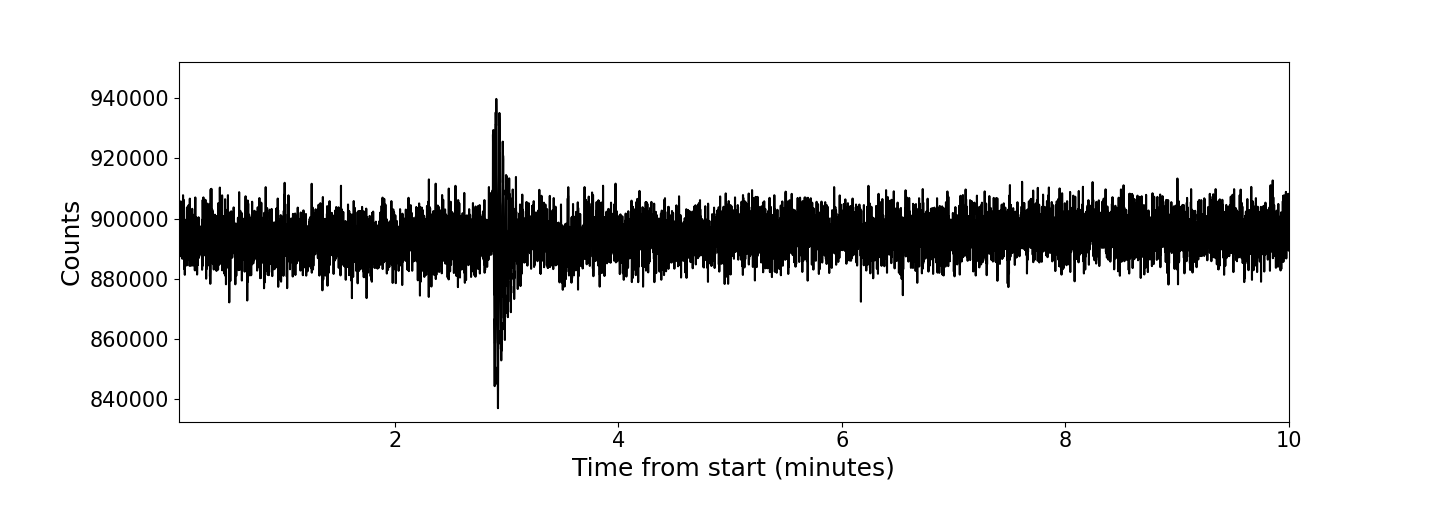
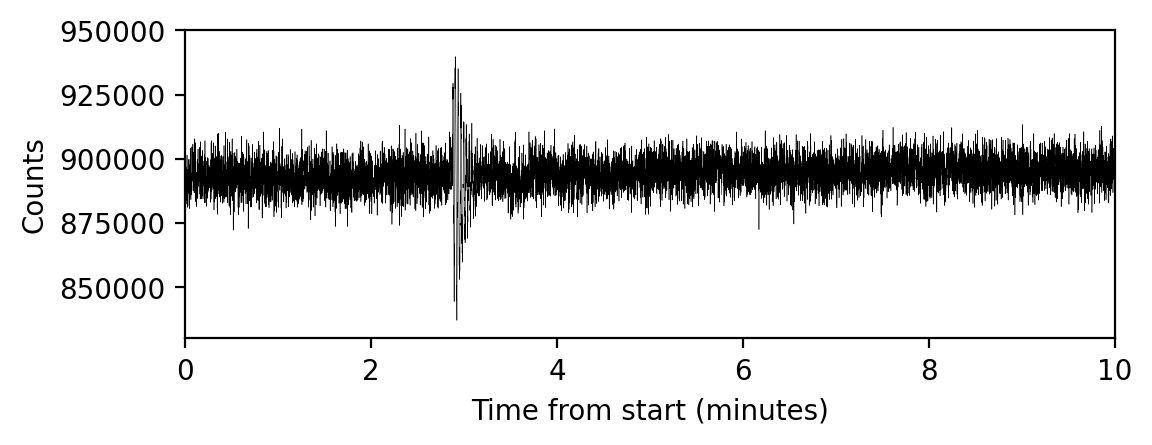
readme changes

diff --git a/README.md b/README.md
@@ -35,9 +35,12 @@ This will download guidestar data for Program ID 1534; the `spk` object itself c
 import matplotlib.pyplot as plt
 
 # Convert times from MJD to minutes:
-plt.plot( ( spk.fg_time - spk.fg_time[0] ) * 24 * 60, spk.fg_flux )
+fig, ax = plt.subplots(figsize=(6,2), dpi=200)
+
+plt.plot( ( spk.fg_time - spk.fg_time[0] ) * 24 * 60, spk.fg_flux, color='black', linewidth=0.2 )
 
 plt.xlim(0,10)
+plt.ylim(830000,950000)
 plt.xlabel('Time from start (minutes)')
 plt.ylabel('Counts')
 
